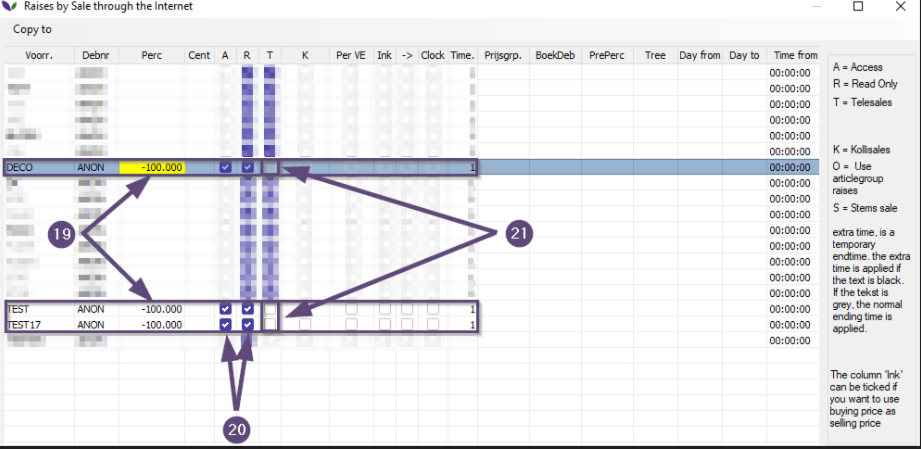
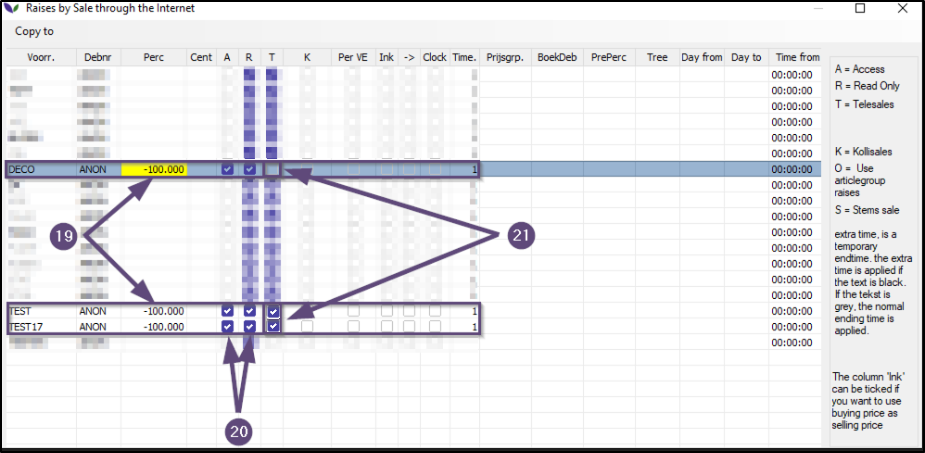
Changelog
@timovanzundert veranderingen betreft anon debiteur.

diff --git a/FLORISHOP ADDONS/Florishop Anonymous Debtor/Anonymous debtor - NL.md b/FLORISHOP ADDONS/Florishop Anonymous Debtor/Anonymous debtor - NL.md
@@ -31,11 +31,12 @@ Deze handleiding gaat over het aanmaken van anonieme debiteuren. Een anonieme de
 |**2**|Vul in het veld "Password voor de klant" de waarde **ANON!** in (#14)<details><summary>**Klik hier voor de voorbeeld afbeelding**</summary><img src=".anoniem/foto5.png"></details>
 |**3**|Klik op de knop ‘Toegankelijke voorraden’ (#15) in het venster ‘Debiteuren’. Het venster ‘Opslagen bij verkoop via Internet’ opent. Lees verder op de volgende pagina.|
 |**4**|<details><summary>**Klik hier voor de voorbeeld afbeelding**</summary><img src=".anoniem/foto6.png"></details>|
-|**5**|Zet de 'A'- en' R'-vinkjes (nr. 20) aan voor de voorraden die u toegankelijk wil maken via de webshop.<details><summary>**Klik hier voor de voorbeeld afbeelding**</summary><img src=".anoniem/foto7.png"></details>|
+|**5**|Zet de 'A' ,' R' en 'T'-vinkjes (nr. 20) aan voor de voorraden die u toegankelijk wil maken via de webshop.<details><summary>**Klik hier voor de voorbeeld afbeelding**</summary><img src=".anoniem/foto7.png"></details>|
 |**6**|Vul hier in de "PERC" kolom "-100.000" in. Zo kan de anonieme debiteur geen prijs zien op deze specifieke voorraad. Diegene ziet dan alleen "---"
 
-In het bovenstaande voorbeeld zijn voor de voorraden TEST, BLOEM, DECO en TEST17 de vinkjes 'A' en 'R' aangevinkt. Dit betekent dat deze voorraden zichtbaar zijn voor de anonieme debiteur.
+In het bovenstaande voorbeeld zijn voor de voorraden TEST, BLOEM, DECO en TEST17 de vinkjes 'A','R' & 'T' aangevinkt. Dit betekent dat deze voorraden zichtbaar zijn voor de anonieme debiteur maar dat hij er niet vanuit kan kopen omdat het read-only is (R).
 
+<!--
 Het vinkje ‘T’ (#21) bepaalt of de debiteur mag kopen via de webshop. Voor de anonieme debiteur geldt in de regel dat deze nooit mag kopen via de webshop.
 
 |Stap|Uitleg|
@@ -45,6 +46,6 @@ Het vinkje ‘T’ (#21) bepaalt of de debiteur mag kopen via de webshop. Voor d
 |**3**|Klik op de knop "OK" in het venster **Debiteuren: ANON" om alle instellingen te bevestigen
 
 <br>
-
+-->
 De anonieme debiteur is nu aangemaakt met de juiste instellingen wat betreft de autorisatie
 

diff --git a/FLORISHOP ADDONS/Florishop Anonymous Debtor/anonymous debtor - ENG.md b/FLORISHOP ADDONS/Florishop Anonymous Debtor/anonymous debtor - ENG.md
@@ -31,11 +31,12 @@ This tutorial is about creating anonymous debtors. For example, an anonymous deb
 |**2**|Enter the value **ANON!** in the "Password for the customer" field (#14)<details><summary>**Click here for the sample image**</summary><img src=".anonymous/photo5.png"></details>
 |**3**|Click the 'Accessible Stocks' button (#5) in the 'Debtors' window. The 'Stocks on Internet Sales' window opens. Continue reading on the next page.|
 |**4**|<details><summary>**Click here for the sample image**</summary><img src=".anonymous/photo6.png"></details>|
-|**5**|Tick the 'A' and 'R' checkboxes for the stocks you want to make accessible through the webshop.<details><summary>**Click here for the sample image**</summary><img src=".anonymous/photo7.png"></details>|
+|**5**|Tick the 'A' , 'R' & 'T' checkboxes for the stocks you want to make accessible through the webshop.<details><summary>**Click here for the sample image**</summary><img src=".anonymous/photo7.png"></details>|
 |**6**|Enter "-100,000" in the "PERC" column here. This way, the anonymous debtor cannot see a price on this particular stock. That person will only see "---"
 
-In the above example, for the stocks TEST, BLOEM, DECO and TEST17, the checkmarks "A" and "R" are checked. This means that these stocks are visible to the anonymous debtor.
+In the above example, for the stocks TEST, BLOEM, DECO and TEST17, the checkmarks "A", "R" & "T" are checked. This means that these stocks are visible to the anonymous debtor yet they can't purchase from these stocks because read only (R) is enabled.
 
+<!-- 
 The checkmark 'T' (#21) determines whether the debtor is allowed to buy through the webshop. As a rule, the anonymous debtor is never allowed to buy through the webshop.
 
 
@@ -48,4 +49,4 @@ The checkmark 'T' (#21) determines whether the debtor is allowed to buy through 
 <br>
 
 The anonymous debtor has now been created with the correct settings regarding authorization
-
+-->
